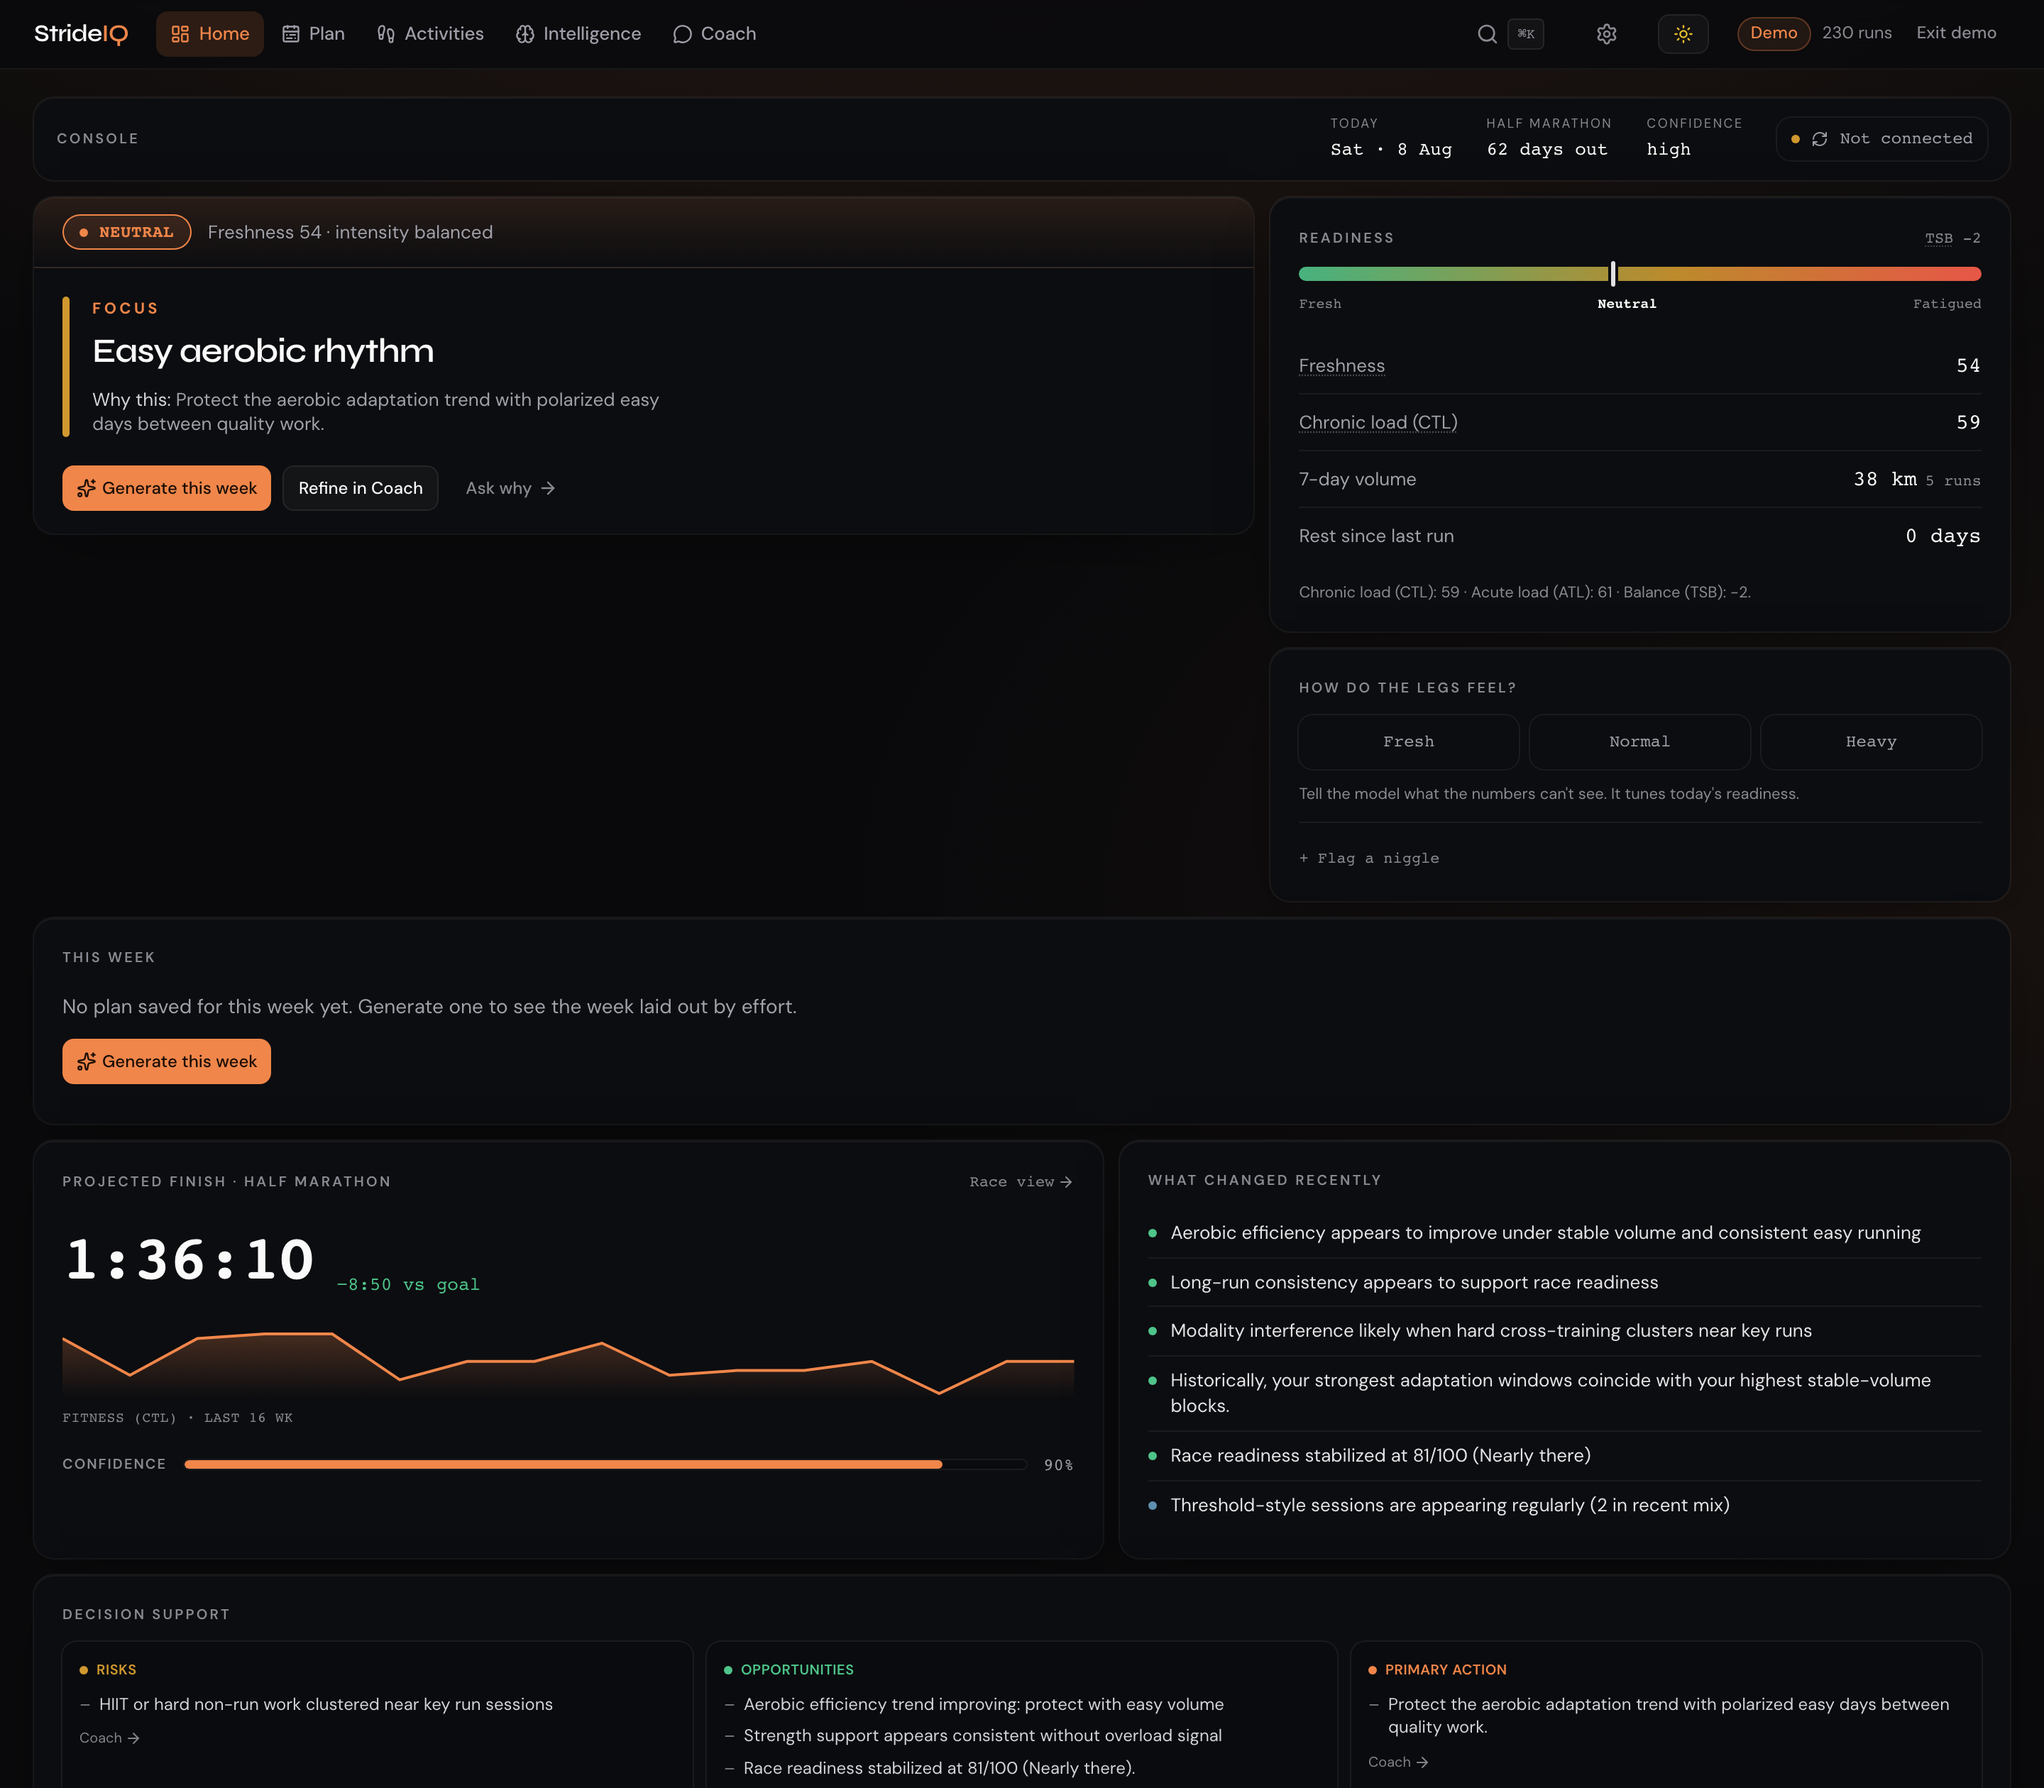
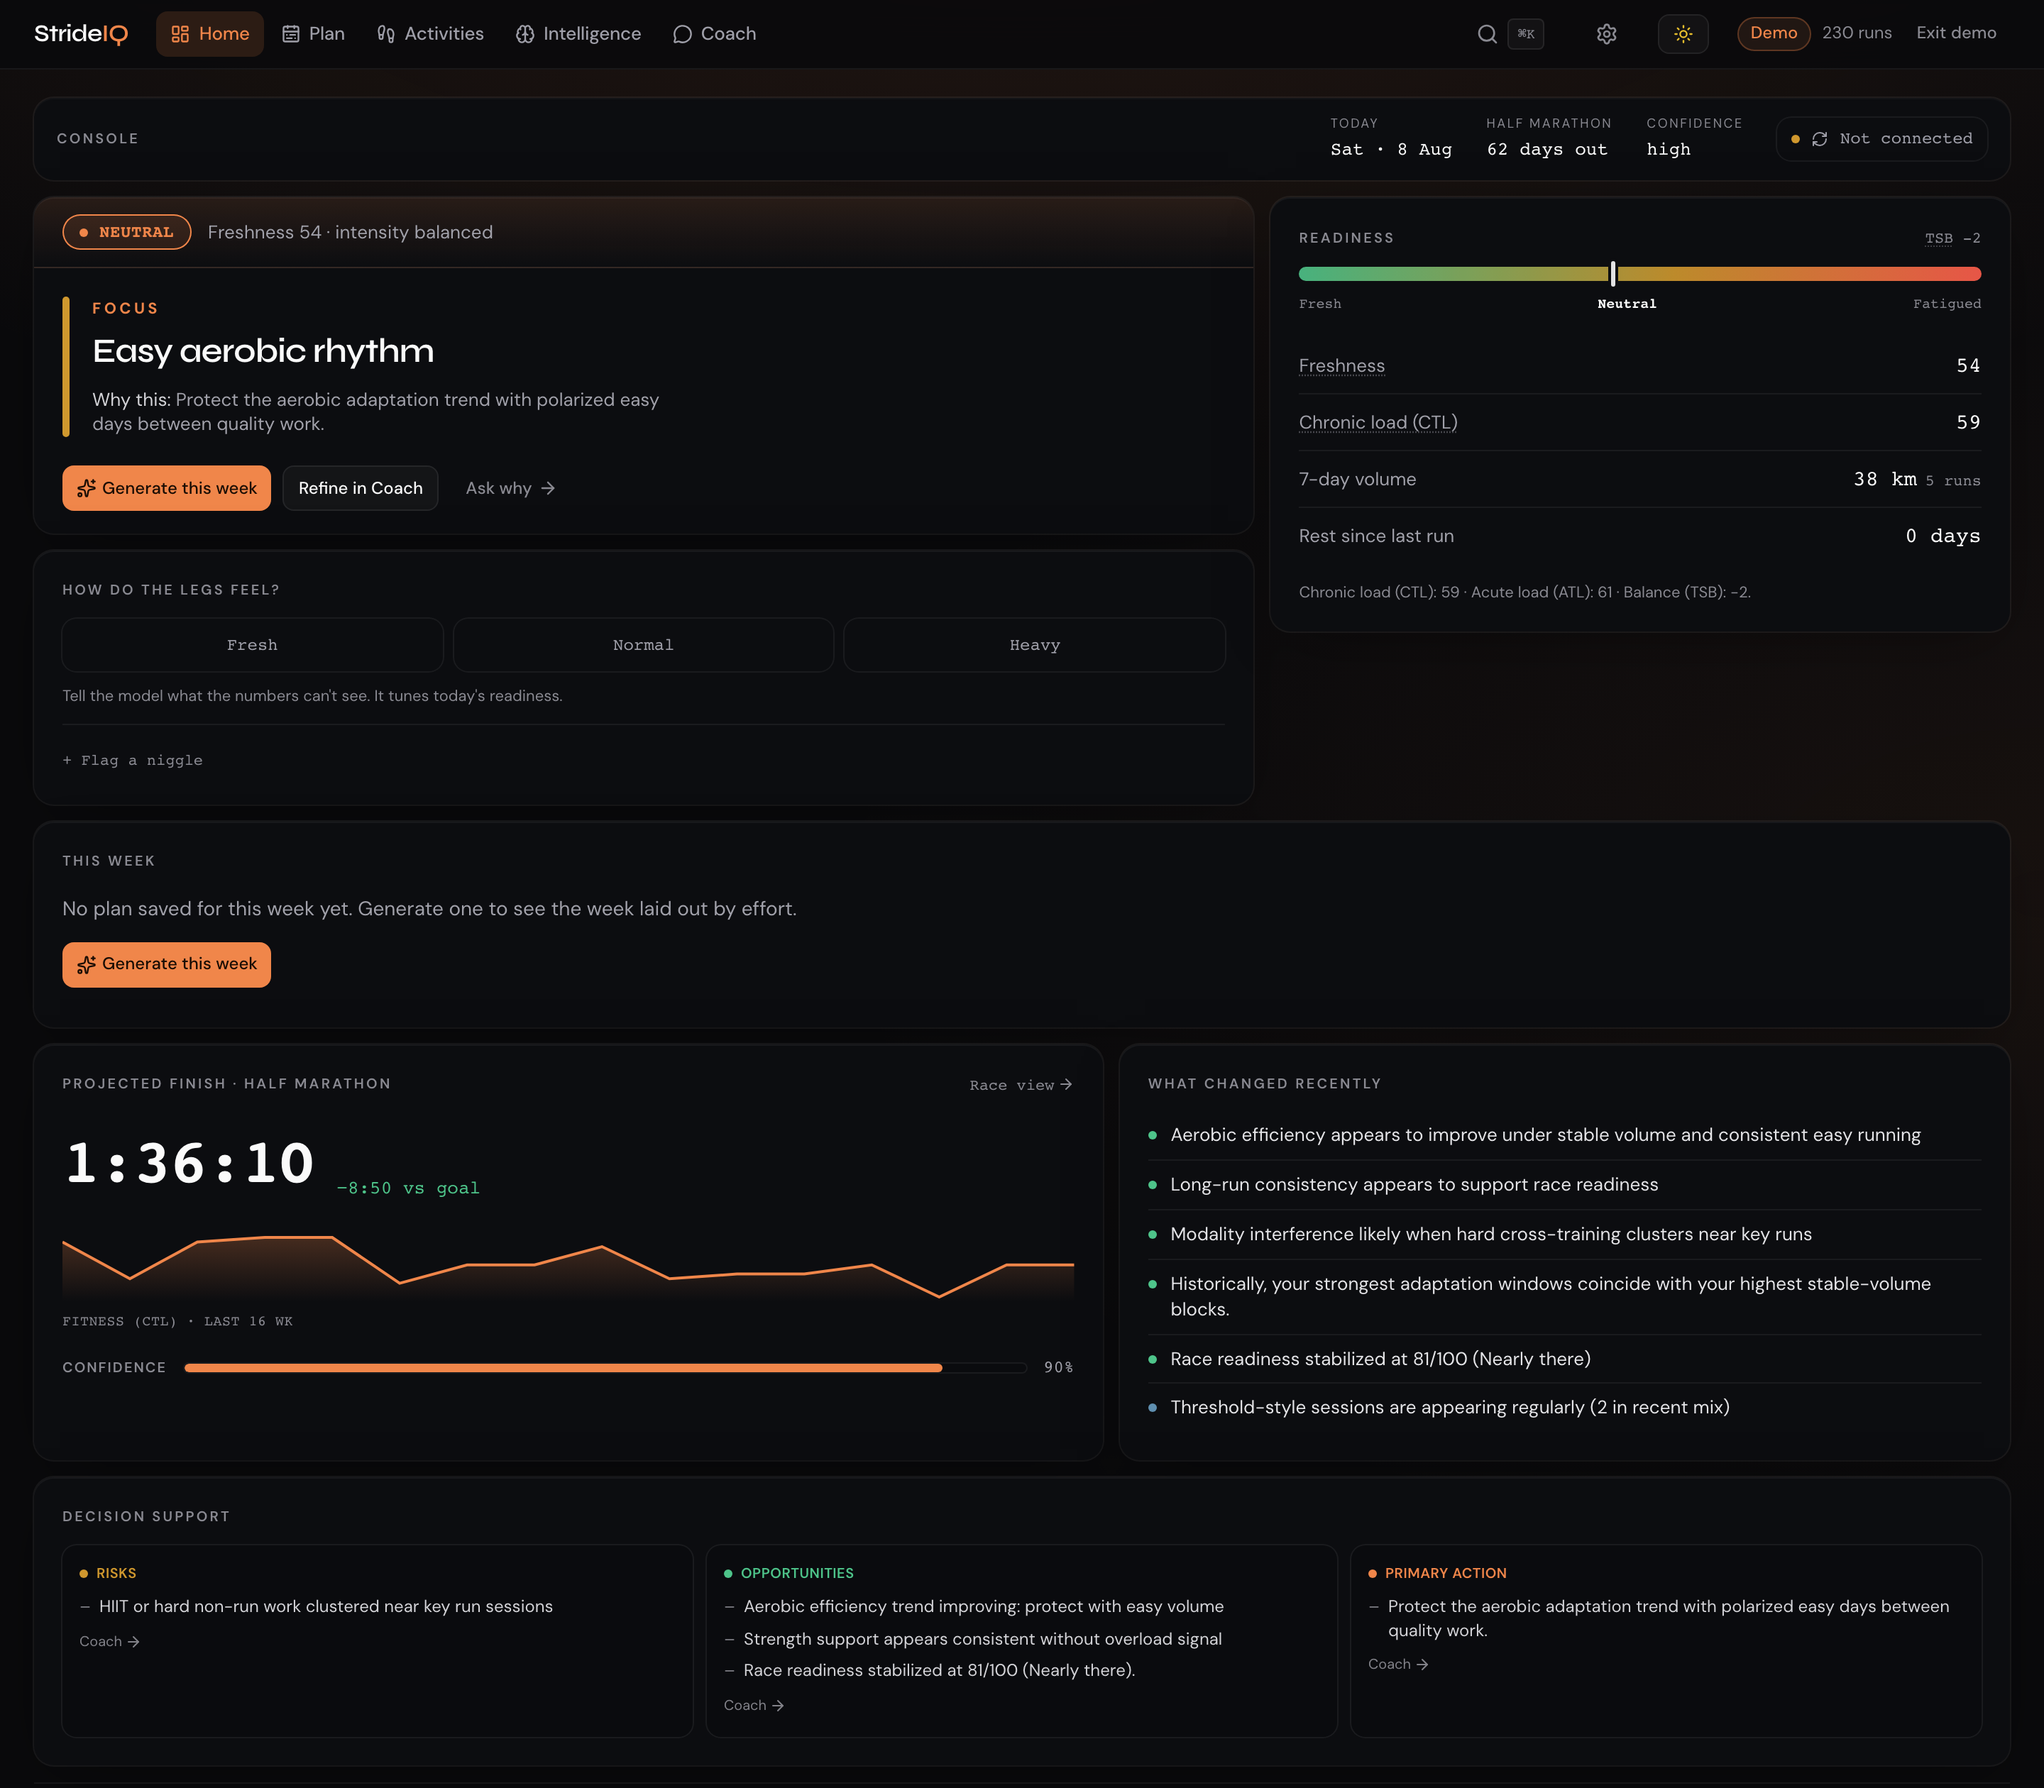
fix(home): stop pairing the two tallest cards in one column
Measured at 1440px, the console's hero row ran 237px of verdict card beside a 496px
column of Readiness (306) stacked on leg-feel (178). `items-start` keeps the verdict
from stretching, so the imbalance surfaced as 259px of dead space under it: the worst
single void on the page, directly beneath the most important card.

Move leg-feel in with the verdict and leave Readiness alone on the right. The columns
come out at 427 vs 306 and the gap more than halves, to 121px, now sitting under the
right-hand rail where it reads as breathing room rather than a hole.

It groups better too. The verdict and "how do the legs feel?" are both things the
athlete acts on; Readiness is the number those are derived from.

Home's screenshot is recaptured to match.

diff --git a/components/home/console/home-console.tsx b/components/home/console/home-console.tsx
@@ -101,20 +101,28 @@ export function HomeConsole({
       />
 
       {/* items-start: grid rows stretch by default, so the verdict panel grew to
-          match the taller Readiness + leg-feel column and left a large empty
-          block under its actions. */}
+          match the taller right column and left a large empty block under its
+          actions.
+
+          Leg-feel sits with the verdict, not with Readiness. Measured at 1440px the
+          three cards are 237 / 306 / 178, so stacking the two tallest on the right
+          left a 259px void beside a 237px verdict card — the single worst piece of
+          dead space on the page. Pairing the shortest with the shortest balances the
+          columns at 427 vs 306 and more than halves the gap. It also reads better:
+          the verdict and "how do the legs feel?" are both things you act on, while
+          Readiness is the number they are derived from. */}
       <div className="grid items-start gap-3 lg:grid-cols-[1.65fr_1fr]">
-        <TheCall
-          vm={vm}
-          today={today}
-          onGeneratePlan={onGeneratePlan}
-          planLoading={planLoading}
-          hasSavedPlan={vm.hero.hasSavedPlan}
-        />
         <div className="flex flex-col gap-3">
-          <Readiness analytics={analytics} hero={vm.hero} />
+          <TheCall
+            vm={vm}
+            today={today}
+            onGeneratePlan={onGeneratePlan}
+            planLoading={planLoading}
+            hasSavedPlan={vm.hero.hasSavedPlan}
+          />
           <LegFeelCard />
         </div>
+        <Readiness analytics={analytics} hero={vm.hero} />
       </div>
 
       {/* After a gap, load-based advice has nothing recent to reason about, so the
